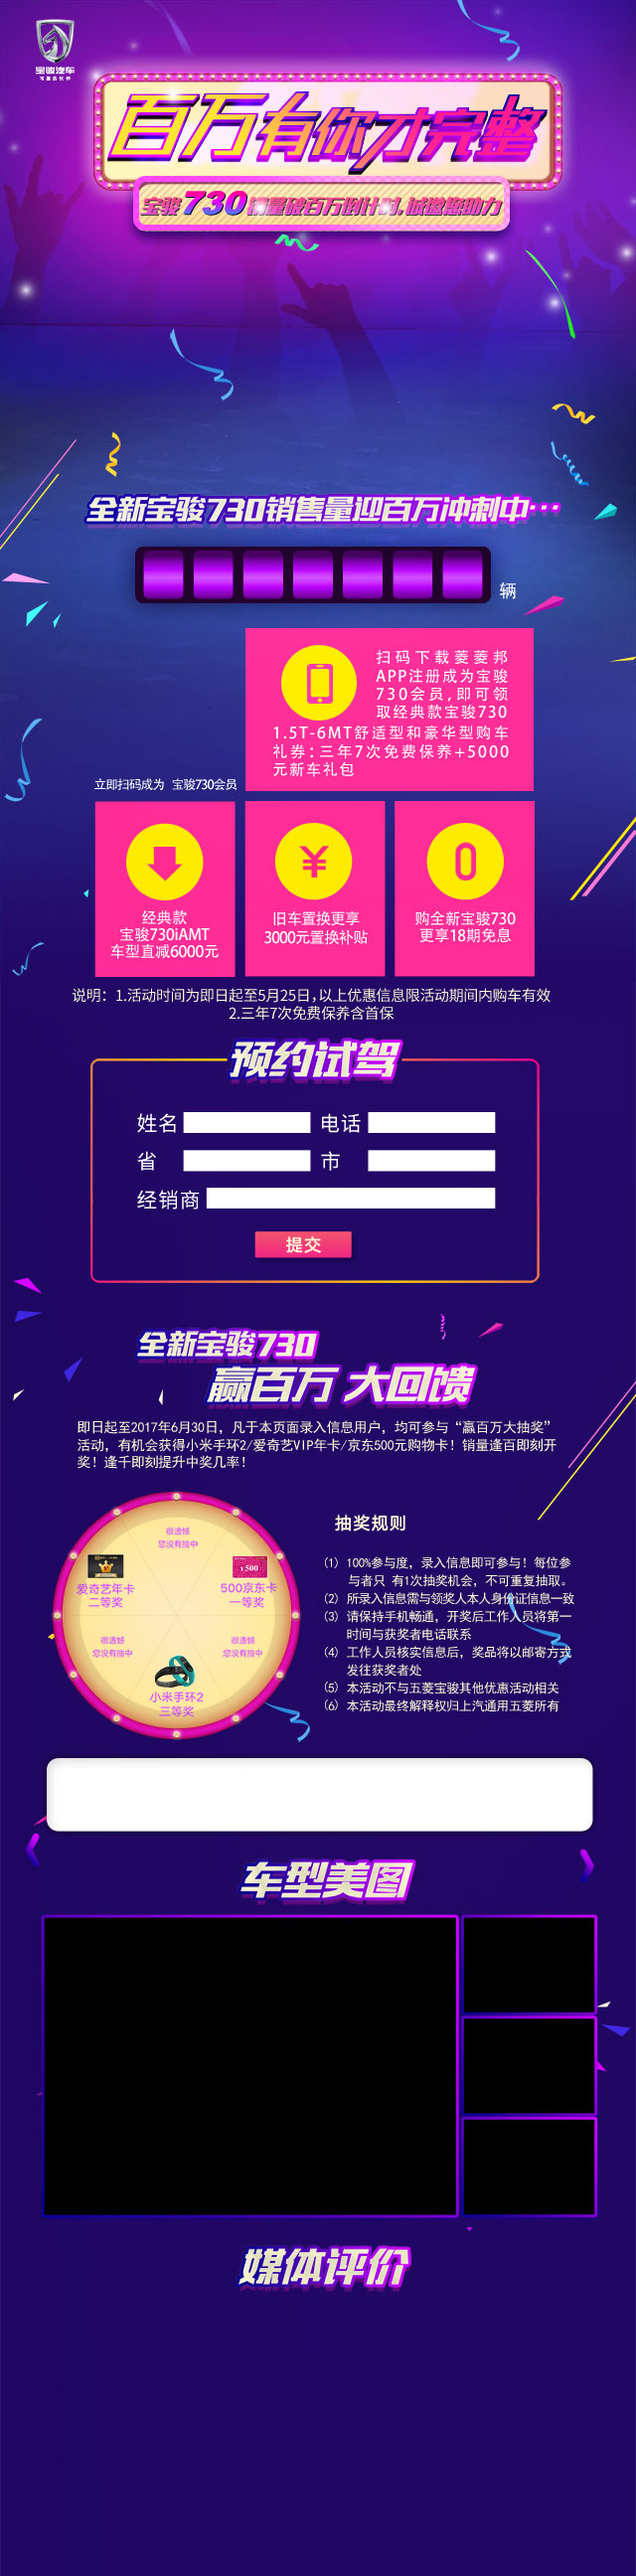
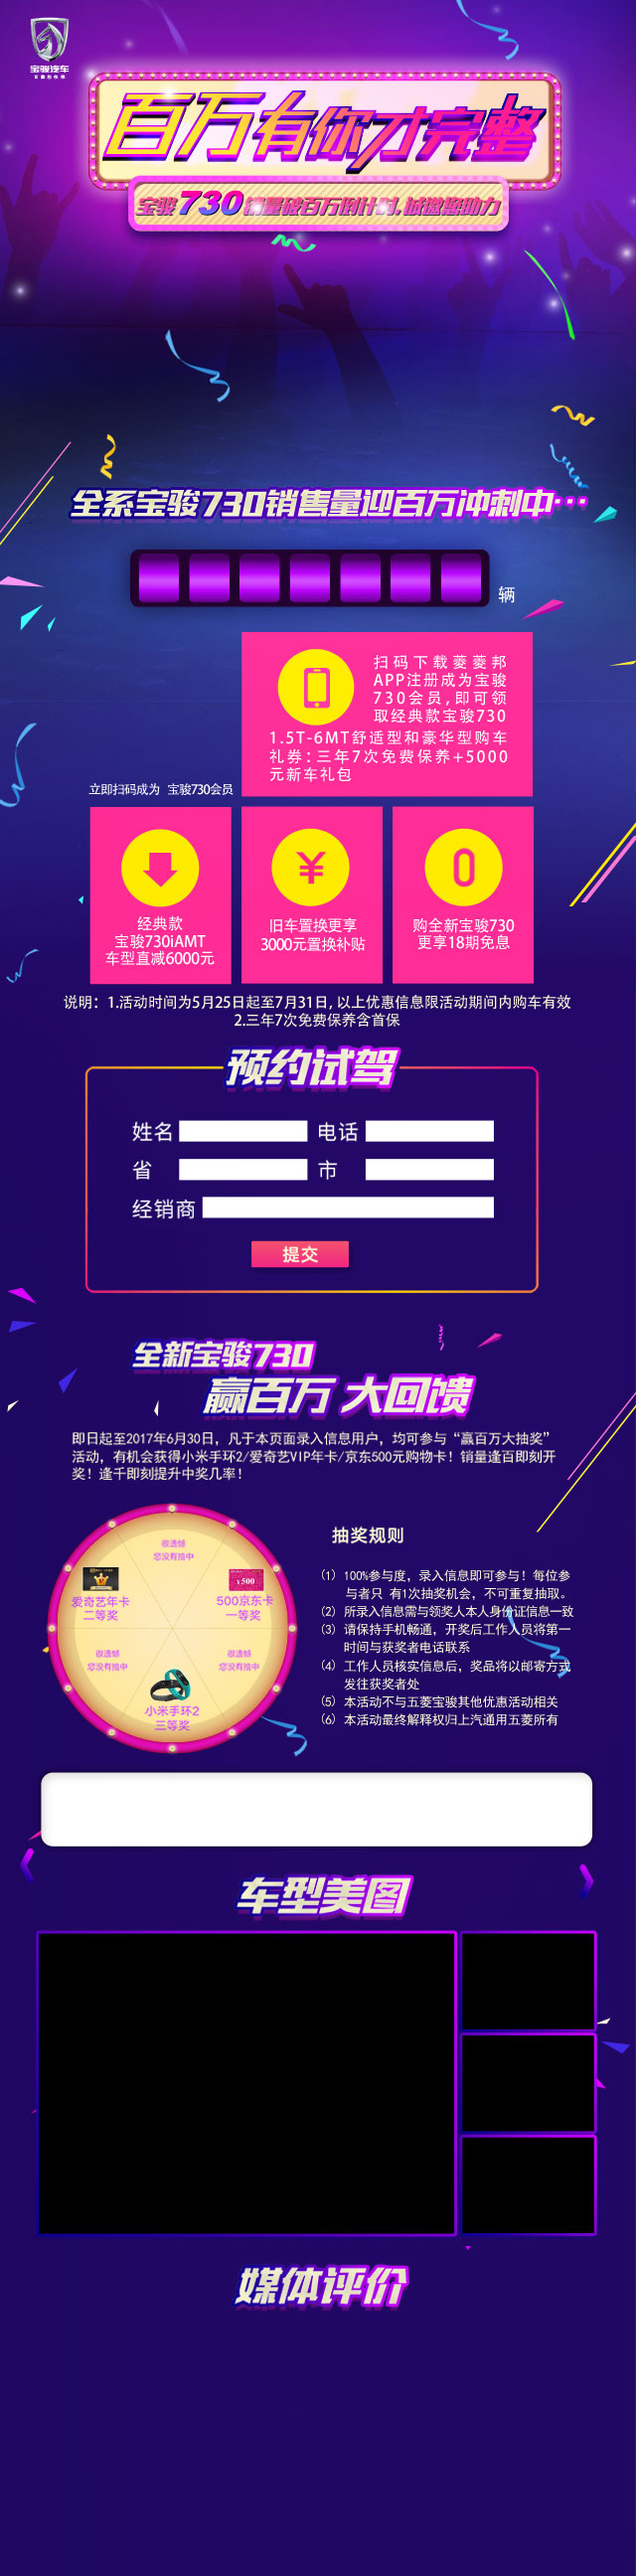
改css

diff --git a/css/css.css b/css/css.css
@@ -520,23 +520,23 @@ body{width:100%;height:3985px;background:url(../images/bg.jpg) center no-repeat;
   .car{position: absolute;left:0;width:100%;height:527px;background:url(../images/wap_car.png);animation:car 1.5s ease 3s forwards;
     opacity: 0;background-size: 100%;}
   .car img{width:100%;}
-  .number{width: 100%;top:5.53rem;font-size: 0.4rem;}
+  .number{width: 100%;top:5.55rem;font-size: 0.4rem;}
   .number span{margin-left:0.2rem;display: block;float: left;width:0.3rem;}
-  .number span:nth-of-type(1){margin-left:1.5rem;}
-  .qrcode{position:absolute;width: 100%;top:6.33rem;height:3rem;}
-  .qrcode img{width:1.39rem;left:0.97rem;}
-  .info{top:9.04rem;width:100%;height:4rem;margin-left:0;}
-  .info input,.info select{width:1.29rem;height:0.24rem;top:2.15rem;font-size:0.12rem;}
-  .info select{top:2.51rem;}
+  .number span:nth-of-type(1){margin-left:1.46rem;}
+  .qrcode{position:absolute;width: 100%;top:6.37rem;height:3rem;}
+  .qrcode img{width:1.39rem;left:0.93rem;}
+  .info{top:9.11rem;width:100%;height:4rem;margin-left:-0.04rem;}
+  .info input,.info select{width:1.32rem;height:0.24rem;top:2.15rem;font-size:0.12rem;}
+  .info select{top:2.54rem;}
   #name,#pro{left:1.84rem;}
   #tel,#city{left:3.7rem;}
-  .info #delear{width:2.92rem;height:0.22rem;top:2.9rem;left: 2.07rem;}
+  .info #delear{width: 2.94rem;height: 0.22rem;top: 2.93rem;left: 2.08rem}
   .btn{width:1.2rem !important;height:0.4rem !important;left: 2.5rem;top: 3.25rem;}
-  .wheel{width: 100%;top:15.35rem;height: 2rem;margin-left: -0.02rem;}
+  .wheel{width: 100%;top:15.52rem;height: 2rem;margin-left: -0.07rem;}
   .start{width: 0.8rem;height: 1.71rem;background-size: 100%;top: -0.03rem;left: 1.4rem;}
-  .award{width: 82%;top:17.7rem;margin-left: 0.6rem;height: 0.7rem;font-size: 0.1rem;}
+  .award{width: 82%;top:17.85rem;margin-left: 0.5rem;height: 0.7rem;font-size: 0.1rem;}
   .award div{font-size:0.1rem;margin-bottom:0.05rem;}
-  .pic{width: 100%;top:17.29rem;height: 4rem;}
+  .pic{width: 100%;top:17.46rem;height: 4rem;margin-left:-0.03rem;}
   .pic img{cursor:pointer;display:block;height:100%;margin-left:-0.15rem;}
   .pic .big_img{width:4.14rem;height:3rem;top:1.99rem;left:0.45rem;}
   .pic .big_img img{margin-left:-0.2rem;}
